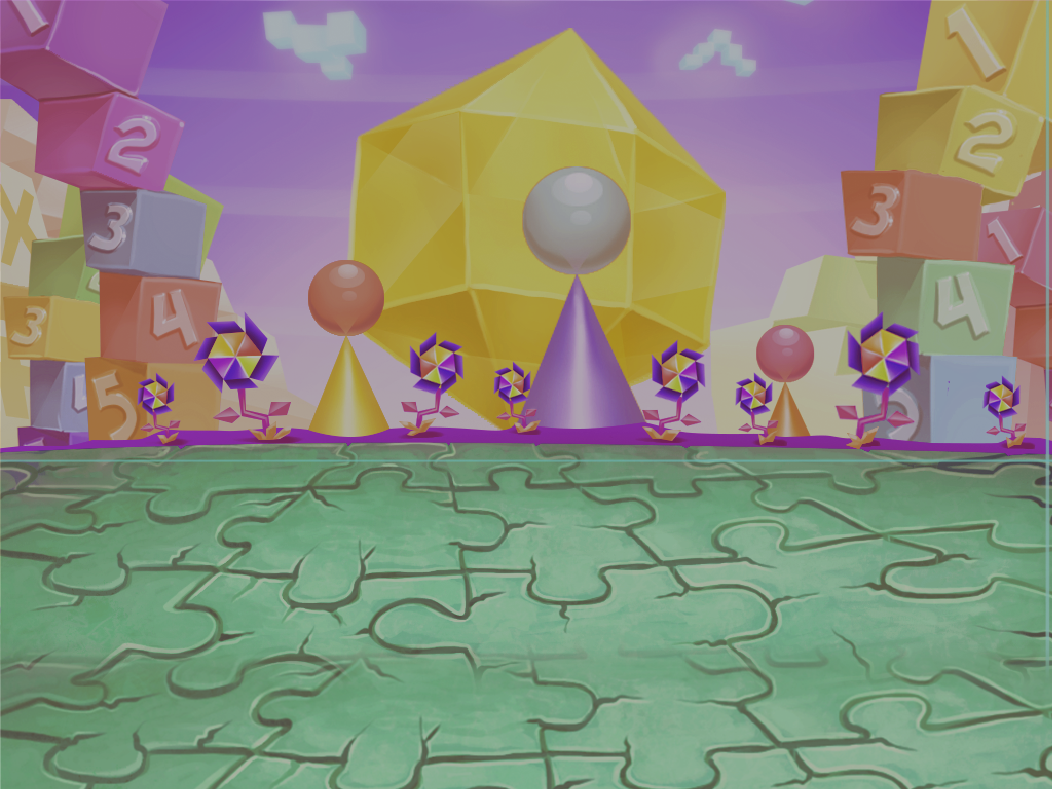
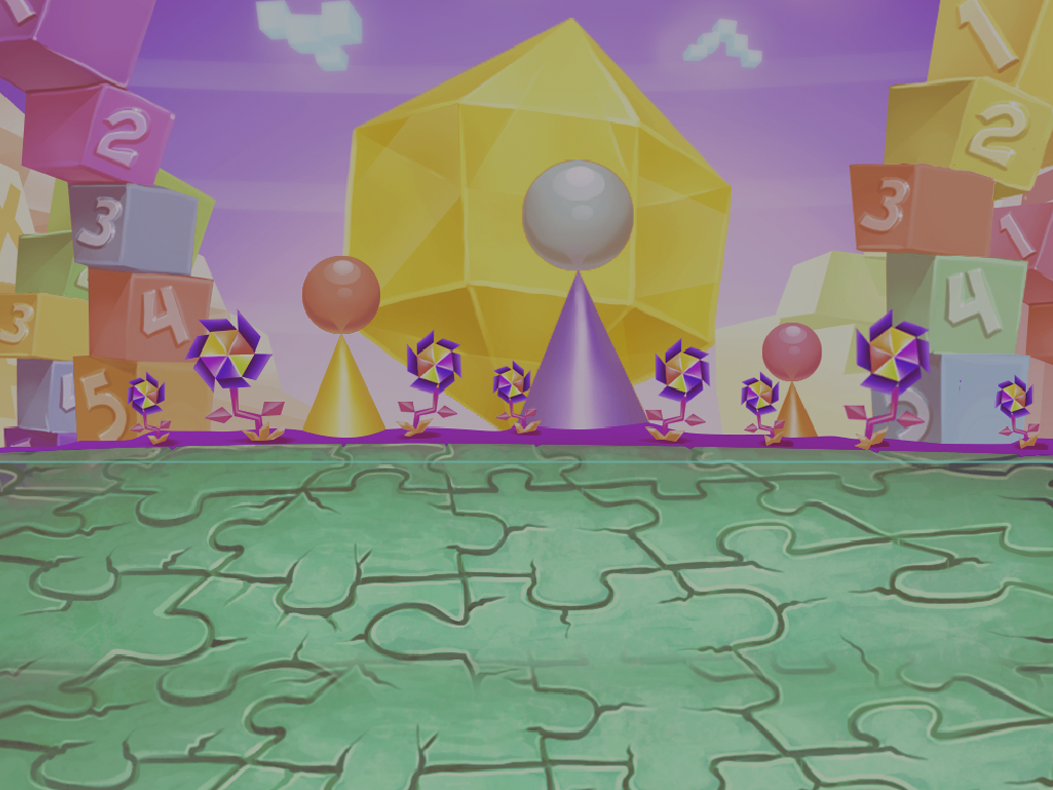
fix for ipad pro

diff --git a/nonrefactored/mathTournament/mathServer/css/site.css b/nonrefactored/mathTournament/mathServer/css/site.css
@@ -8,9 +8,8 @@ body{
 }
 
 #backgroundBody{
-    width: 110%;
-    height: 110%;
-    left:-5%;
+    width: 100%;
+    height: 100%;
     background-image: url("../img/bgGame.png");
     background-repeat: no-repeat;
     background-size:cover;
@@ -185,7 +184,7 @@ footer{
 }
 
 #selectLevel span{
-    font-size: 2.3vh;
+    font-size: 2vh;
 }
 
 
